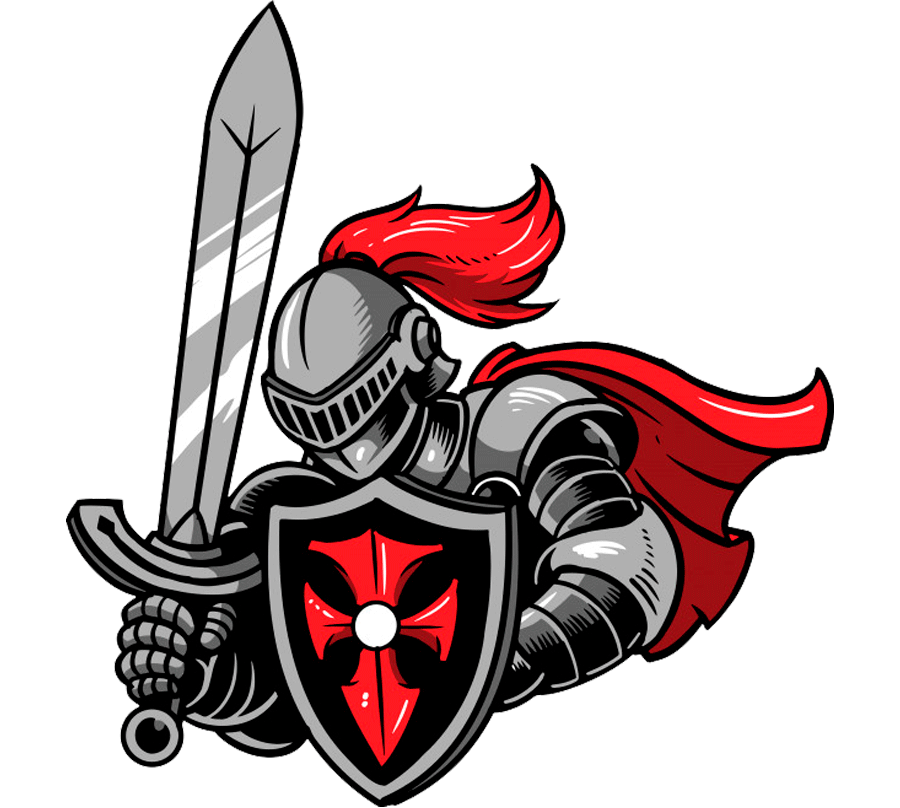
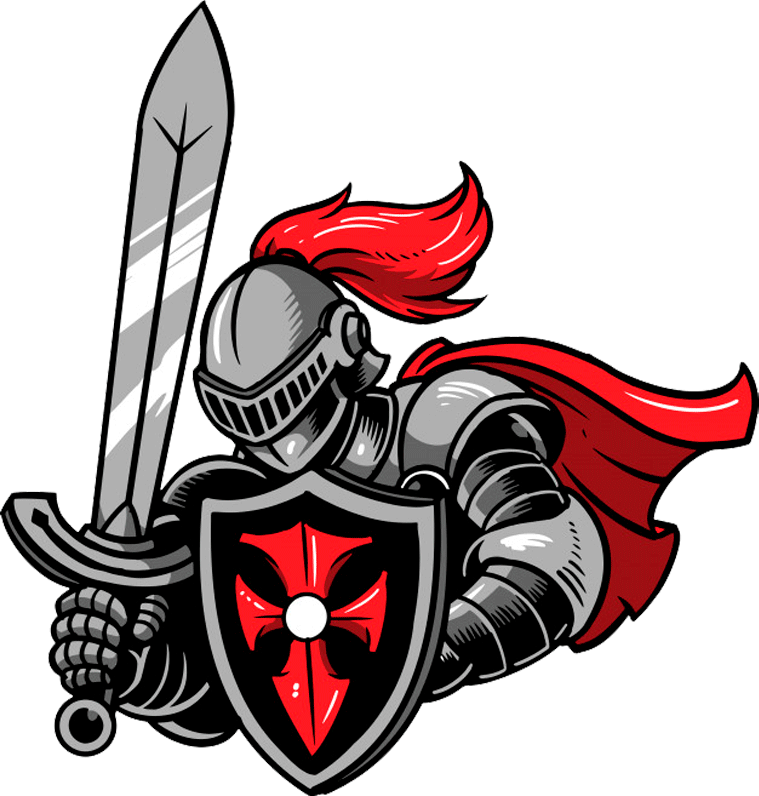
header 1.1.0

diff --git a/css/style.css b/css/style.css
@@ -9,9 +9,9 @@
 .header-knight img{
     position: absolute;
     left: 5px;
-    top: 30px;
-    width: 759px;
-    height: 796px;
+    top: 20px;
+    /*width: 700px;
+    height: 700px;*/
     z-index: 219;
 }
 .navbar-nav{
